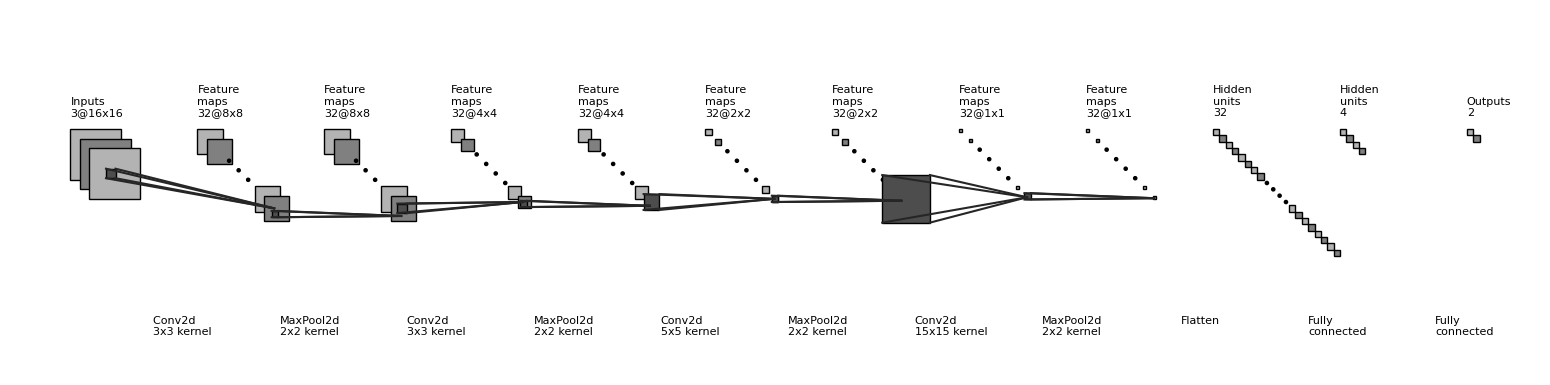
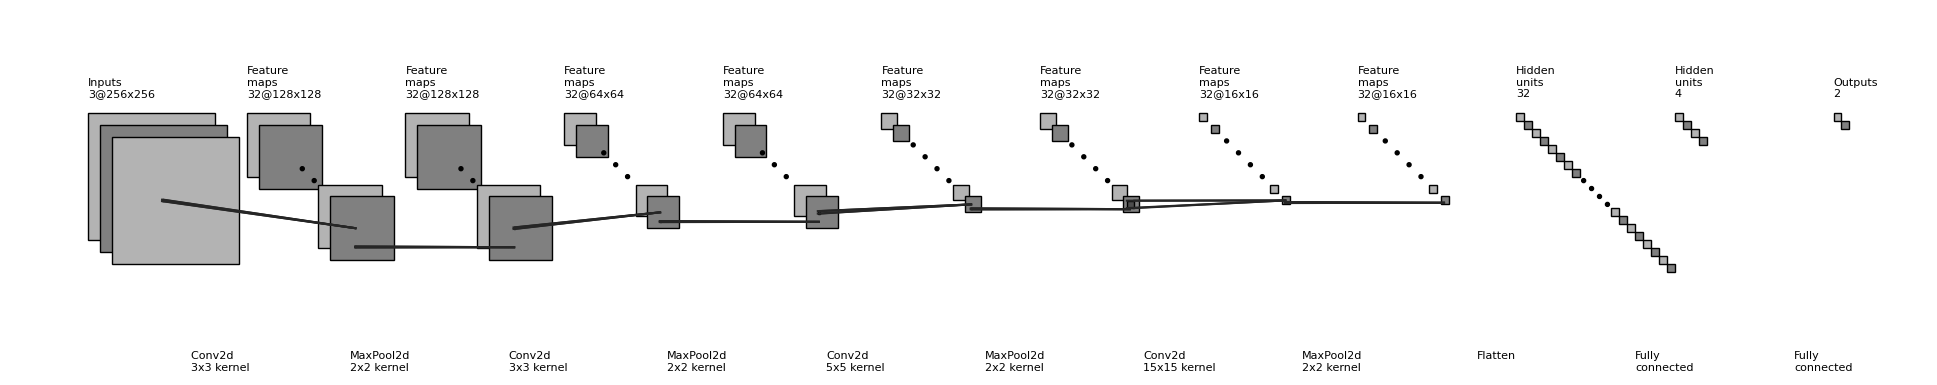
Add testing all test splits as an option, even when not all datasets are used during training

diff --git a/project/plot.py b/project/plot.py
@@ -155,7 +155,7 @@ if __name__ == '__main__':
 
     ############################
     # conv layers
-    size_list = [(16,16), (8,8), (8,8), (4,4), (4,4), (2,2), (2,2), (1,1), (1,1)]
+    size_list = [(32,32), (16,16), (16,16), (8,8), (8,8), (4,4), (4,4), (2,2), (2,2)]
     num_list = [3,32,32,32,32,32,32,32,32]
     x_diff_list = [0, layer_width, layer_width, layer_width, layer_width, layer_width, layer_width, layer_width, layer_width]
     text_list = ['Inputs'] + ['Feature\nmaps'] * (len(size_list) - 1)
@@ -176,14 +176,14 @@ if __name__ == '__main__':
             add_layer(patches, colors, size=size_list[ind],
                       num=num_show_list[ind],
                       top_left=top_left_list[ind], loc_diff=loc_diff_list[ind])
-        label(top_left_list[ind], text_list[ind] + '\n{}@{}x{}'.format(
-            num_list[ind], size_list[ind][0], size_list[ind][1]))
+        label(top_left_list[ind], text_list[ind]+ '\n{}@{}x{}'.format(
+            num_list[ind], size_list[ind][0] * 8, size_list[ind][1] * 8))
 
     ############################
     # in between layers
     start_ratio_list = [[0.4, 0.5], [0.4, 0.8], [0.4, 0.5], [0.4, 0.8],[0.4, 0.5], [0.4, 0.8],[0.4, 0.5], [0.4, 0.8]]
     end_ratio_list = [[0.4, 0.5], [0.4, 0.8], [0.4, 0.5], [0.4, 0.8], [0.4, 0.5], [0.4, 0.8], [0.4, 0.5], [0.4, 0.8]]
-    patch_size_list = [(3, 3), (2,2), (3, 3),(2,2), (5, 5),(2,2), (15, 15), (2,2)]
+    patch_size_list = [(3/8, 3/8), (2/8,2/8), (3/8, 3/8),(2/8,2/8), (5/8, 5/8),(2/8,2/8), (15/8, 15/8), (2/8,2/8)]
     ind_bgn_list = range(len(patch_size_list))
     text_list = ['Conv2d ', 'MaxPool2d', 'Conv2d', 'MaxPool2d', 'Conv2d', 'MaxPool2d', 'Conv2d', 'MaxPool2d', 'Conv2d']
 
@@ -193,7 +193,7 @@ if __name__ == '__main__':
             patch_size_list[ind], ind,
             top_left_list, loc_diff_list, num_show_list, size_list)
         label(top_left_list[ind], text_list[ind] + '\n{}x{} kernel'.format(
-            patch_size_list[ind][0], patch_size_list[ind][1]), xy_off=[26, -65]
+            int(patch_size_list[ind][0] * 8), int(patch_size_list[ind][1] * 8)), xy_off=[26, -65]
         )
 
 
@@ -241,7 +241,7 @@ if __name__ == '__main__':
     plt.axis('equal')
     plt.axis('off')
     plt.show()
-    fig.set_size_inches(20, 5)
+    fig.set_size_inches(25, 5)
 
     fig_dir = './'
     fig_ext = '.png'
